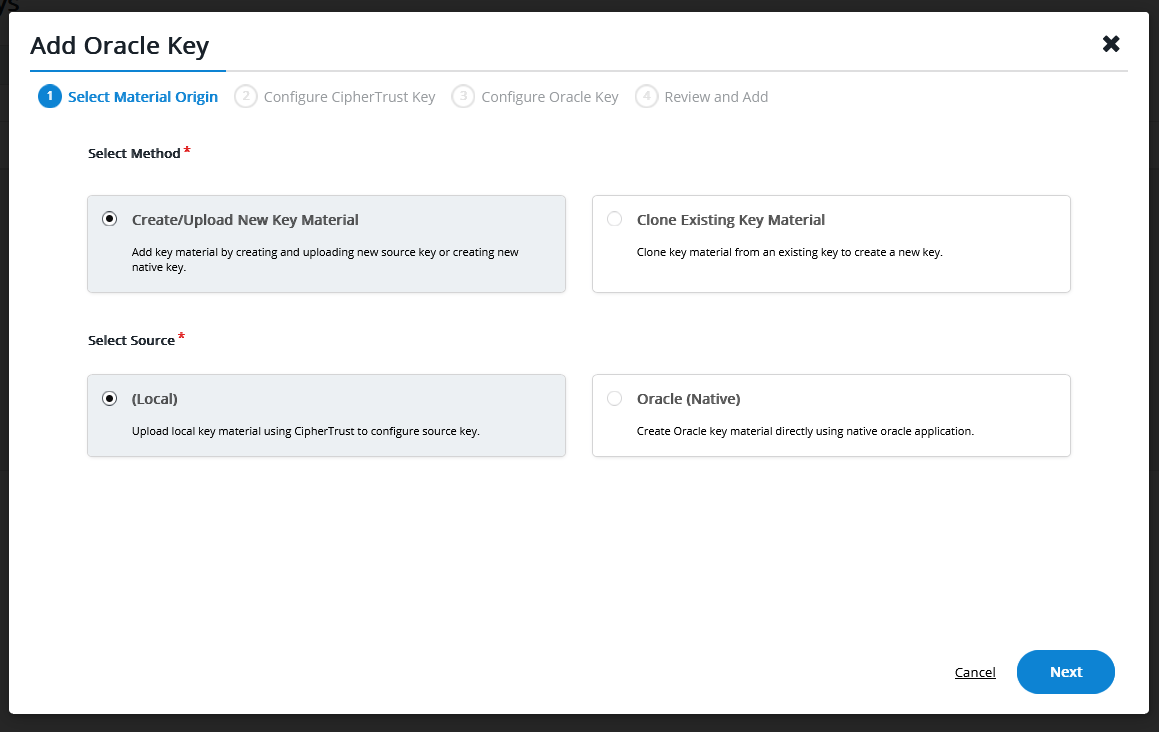
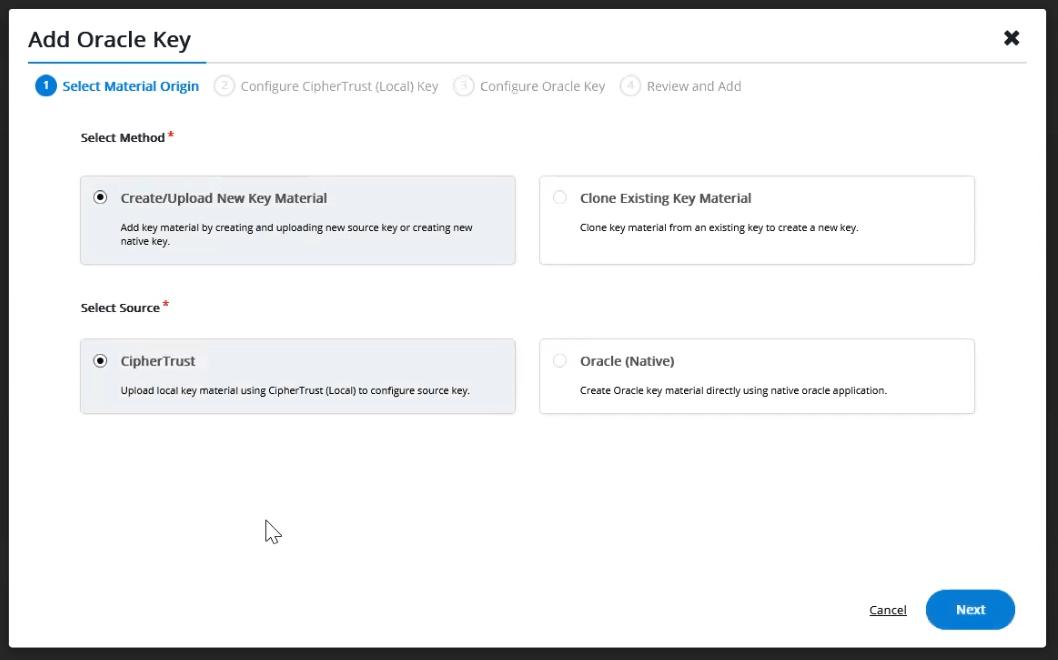
WMS ID: #11394 (#120)
* WMS ID # 11394

WMS ID # 11394

* Updates content

Updates content

* Updates

Updates

* Updates

Updates

* Updates

Updates

* Updates Thales

Updates Thales

* Updates

Updates

* Updates

Updates

* Updates

Updates

* Updates

Updates

* Updates

Updates

* Updates

Updates

* Updates

Updates

* Updates

Updates

* Updates

Updates

* Updates

Updates

* Updates

Updates

* Update cloud-login.md

* Changes to Get Started and Lab 1 - Damien

Changes to Get Started and Lab 1 - Damien

* Push from Damien - Lab 1 correction

* Update lab 1

* Update lab 1-2

* Update create-connection.md

* Update create-connection.md

* Update create-connection.md

* Update create-connection.md

* Update create-connection.md

* Update create-connection.md

* Update create-connection.md

* Update create-connection.md

* Update create-connection.md

* Update create-connection.md

* Update create-connection.md

* Update byok-to-oci.md

* Update byok-to-oci.md

* Update byok-to-oci.md

* Update byok-to-oci.md

* Update byok-to-oci.md

* Update picture

Update picture

* Update picture

Update picture

* Updates

Updates

* Update byok-to-oci.md

* Update byok-to-oci.md

* Update byok-to-oci.md

* Create accessing-oci-vault.png

* Create oci-vault.png

* Update byok-to-oci.md

* Update byok-to-oci.md

* Update byok-to-oci.md

* Update byok-to-oci.md

* Update encrypt-resources.md

* Update encrypt-resources.md

* Update encrypt-resources.md

* Update encrypt-resources.md
[…]

diff --git a/oci-kms/encrypt-resources/encrypt-resources.md b/oci-kms/encrypt-resources/encrypt-resources.md
@@ -35,13 +35,13 @@ Let's first create a bucket in OCI Object Storage. To do that, log in to OCI con
 
 
 3. Name it by following this naming convention: 
-* **"ocw23-OCI-bucket-XXX"** where "XXX" is your student number. 
+    * **"ocw23-OCI-bucket-XXX"** where "XXX" is your student number. 
 
-Select the option **Encrypt using customer-managed keys**. Once you select that option, new fields to be filled will appear.
-* Select the Vault you created in lab 1 called "ocw23-OCI-Vault-XXX" where "XXX" is your student number. 
-* Select the encryption key that you created in Thales CTM, called "ocw23-AES-256-XXX" where "XXX" is your student number.
+    Select the option **Encrypt using customer-managed keys**. Once you select that option, new fields to be filled will appear.
+    * Select the Vault you created in lab 1 called "ocw23-OCI-Vault-XXX" where "XXX" is your student number. 
+    * Select the encryption key that you created in Thales CTM, called "ocw23-AES-256-XXX" where "XXX" is your student number.
 
-Then click **Create**.
+    Then click **Create**.
     ![Bucket info](./images/bucket-info.png "Bucket info")
 
 4. Congratulations, you have now created a new storage bucket in OCI where all the data you upload will be automatically encrypted at all times with the encryption key you created on Thales CTM:
@@ -75,14 +75,14 @@ You will upload a file that will be provided to you into the bucket you recently
   ![Create Pre-Authenticated Request](./images/create-par.png "Create Pre-Authenticated Request")
 
 7. Fill the parameters as follow 
-* Name: enter "ocw23-sample-file"
-* Pre-Authenticated Request target: Click on the "Object" tile
-* Object Name: enter "ocw23-sample-file.csv"
-* Access Type: select "Permit object reads"
-* Expiration: leave the default or choose any time. 
+    * Name: enter "ocw23-sample-file"
+    * Pre-Authenticated Request target: Click on the "Object" tile
+    * Object Name: enter "ocw23-sample-file.csv"
+    * Access Type: select "Permit object reads"
+    * Expiration: leave the default or choose any time. 
 
- Then click **Create Pre-Authenticated Request**:
-  ![Add Pre-Authenticated Request info](./images/par-info.png "Add Pre-Authenticated Request info")
+    Then click **Create Pre-Authenticated Request**:
+    ![Add Pre-Authenticated Request info](./images/par-info.png "Add Pre-Authenticated Request info")
 
 8. A window will prompt with the URL of the pre-authenticated request. Copy this URL and save it locally, you will need it later in lab 4. Click **Close**.
 
@@ -94,37 +94,35 @@ You will upload a file that will be provided to you into the bucket you recently
 
 Let's create now the Autonomous Database, and configure it with the key you created in Thales CTM. 
 
-### Learn More
+In order to use customer-managed encryption for Autonomous Database, it is required to create permissions to allow your Autonomous Database to communicate with the OCI Vault service. For the purpose of this lab, we have pre-configured a Dynamic Group and the associated policy. For you to understand all the steps, you can look at the configuration below, or if you don't have time you can skip directly to step 1 of this task. 
 
-* In order to use customer-managed encryption for Autonomous Database, it is required to create permissions to allow your Autonomous Database to communicate with the OCI Vault service. For the purpose of this lab, we have pre-configured a Dynamic Group and the associated policy. For you to understand all the steps, you can look at the configuration below, or if you don't have time you can skip directly to step 1 of this lab. 
+We have created a dynamic group which automatically contains all the resources of this compartment. To see the configuration, in the Oracle Cloud Infrastructure console click *"Identity & Security"* and under *"Identity"*, click *"Dynamic Groups"*. 
 
-* We have created a dynamic group which automatically contains all the resources of this compartment. To see the configuration, in the Oracle Cloud Infrastructure console click *"Identity & Security"* and under *"Identity"*, click *"Dynamic Groups"*. 
+  ![Dynamic Groups](./images/dynamic-groups.png "Dynamic Groups")
 
- ![Dynamic Groups](./images/dynamic-groups.png "Dynamic Groups")
+Look for a group called "ocw23ToVault" and click on its name to see all the details. 
 
-* Look for a group called "ocw23ToVault" and click on its name to see all the details. 
+  ![Dynamic Groups list](./images/dynamic-groups-list.png "Dynamic Groups List")
 
- ![Dynamic Groups list](./images/dynamic-groups-list.png "Dynamic Groups List")
-
-* In the details panel, you can see the rule which was created: 
+In the details panel, you can see the rule which was created: 
   ```
   resource.compartment.id = '<your_Compartment_OCID>'
   ```
   where &lt;your\_Compartment\_OCID&gt; is the OCID of the compartment ocw23-OCI-Vault-HOL.
   This means that any new resource created in the "ocw23-OCI-Vault-HOL" compartment will automatically belong to this group. This is a best practice for simplification as all the new Autonomous Database created will be part of it and benefit from the associated policy. Indeed when you are creating the dynamic group, the OCID for the new database is not yet available.
 
- ![Dynamic Group Details](./images/dynamic-group-details.png "Dynamic Group Details")
+  ![Dynamic Group Details](./images/dynamic-group-details.png "Dynamic Group Details")
 
-* Then we needed to write a policy statement for the dynamic group to enable access to OCI Vault resources: Vaults and Keys. To check the policy written for this lab, in the OCI console click *"Identity & Security"* and under *"Identity"*, click *"Policies"*:
+Then we needed to write a policy statement for the dynamic group to enable access to OCI Vault resources: Vaults and Keys. To check the policy written for this lab, in the OCI console click *"Identity & Security"* and under *"Identity"*, click *"Policies"*:
 
   ![Security policies](./images/policies.png "Security policies")
 
 
-* Look for a policy called "ocw23-Dynamic-Access-to-Vault-Policy" and click on its name to see all the details.
+Look for a policy called "ocw23-Dynamic-Access-to-Vault-Policy" and click on its name to see all the details.
 
   ![Security policies list](./images/policies-list.png "Security policies list")
 
-  * In the details panel, you can see a policy was written as follows:
+In the details panel, you can see a policy was written as follows:
   ```
   Allow dynamic-group ocw23ToVault to use vaults in compartment ocw23-OCI-Vault-HOL
   Allow dynamic-group ocw23ToVault to use keys in compartment ocw23-OCI-Vault-HOL
@@ -132,7 +130,7 @@ Let's create now the Autonomous Database, and configure it with the key you crea
 
    ![Create policy](./images/create-policy.png "Create policy")
 
-This policy configuration is very important. By default, no services can access Vaults and Keys. It is your responsibility as a CISO / Security Administrator of OCI to decide who/what can access which vaults and which encryption keys. This allows you to define a very advanced and granular encryption architecture within OCI, while leveraging your existing KMS/HSM assets on-premise as the key we are using in this lab has been created by you on your company existing Thales CTM tenant, outside of OCI. 
+This policy configuration is very important. By default, no services can access Vaults and Keys. It is your responsibility as a CISO / Security Administrator of OCI to decide who/what can access which vaults and which encryption keys. This allows you to define a very advanced and granular encryption architecture within OCI, while leveraging your existing KMS/HSM assets on-premise as the key we are using in this lab has been created by you on your company existing Thales CTM tenant, outside of OCI.
 
 1. Now you can create the Autonomous Database. Navigate through the main hamburger menu to: *"Oracle Database > Autonomous Database"*.
 
@@ -149,16 +147,16 @@ This policy configuration is very important. By default, no services can access 
     *	Display Name: ocw23-OCI-adb-001
     *	Database Name: ocw23OCIadb001
     *	Workload type: Transaction Processing
-    *	Deployment type: Shared Infrastructure
+    *	Deployment type: Serverless
     *	Configure the database: &lt;Leave it as default&gt; 
     *	Administrator credentials: &lt;your ADMIN password&gt; 
     *	Network access: Secure access from everywhere
     *	License type: Bring Your Own License (BYOL)
     * Oracle Database Edition: Oracle Database Standard Edition (SE)
   
-Click the link *"Show advanced options"*. A new section for Encryption Key will appear. Select the option: *"Encrypt using a customer-managed key in this tenancy"* and enter your previously created Vault and Master Encryption Key.
+    Click the link *"Show advanced options"*. A new section for Encryption Key will appear. Select the option: *"Encrypt using a customer-managed key in this tenancy"* and enter your previously created Vault and Master Encryption Key.
 
-![Encryption in Autonomous Database](./images/adb-encryption.png "Encryption in Autonomous Database")
+    ![Encryption in Autonomous Database](./images/adb-encryption.png "Encryption in Autonomous Database")
 
 
 4. Click **Create Autonomous Database**. Then wait until the database status is set to green and ACTIVE.

diff --git a/oci-kms/create-connection/create-connection.md b/oci-kms/create-connection/create-connection.md
@@ -112,18 +112,18 @@ In this task you will create a connection from your CipherTrust Manager (CTM) te
 
 7. You are now in the **Configure Connection** step. You have to enter the information you previoulsy saved when you created the API Key Pair, in the Task 1.9 of this lab. **BE CAREFUL**, the information are not listed in the same order, for example "User OCID" is provided first and "tenancy OCID" comes third, where here "tenancy OCID" is asked first, so you have to make sure you paste the relevant information. You will also need to upload the private key file you saved in the same step.
 
-Copy the following parameters you had in your configuration file:
+    Copy the following parameters you had in your configuration file:
 
-![Configuration file](images/configuration-file-red-squares.png "Configuration file")
+    ![Configuration file](images/configuration-file-red-squares.png "Configuration file")
 
-   * Tenancy OCID: OCID of the tenancy.
-   * User OCID: OCID of the user.
-   * Region: An Oracle Cloud Infrastructure region.
-   * Fingerprint: Fingerprint of the public key added to this user.
-   * Key File: Private key file for the OCI connection in the PEM format. Either upload the key file or paste the file content.
-   * File Upload: Select and click Upload Private Key to upload the key file from your machine.
-   * Text: Select and paste the certificate content in the text field.
-   * Passphrase: Passphrase of the encrypted key file.
+    * Tenancy OCID: OCID of the tenancy.
+    * User OCID: OCID of the user.
+    * Region: An Oracle Cloud Infrastructure region.
+    * Fingerprint: Fingerprint of the public key added to this user.
+    * Key File: Private key file for the OCI connection in the PEM format. Either upload the key file or paste the file content.
+    * File Upload: Select and click Upload Private Key to upload the key file from your machine.
+    * Text: Select and paste the certificate content in the text field.
+    * Passphrase: Passphrase of the encrypted key file.
     
 
     ![Connection details](images/connection-details.png "Connection details")

diff --git a/oci-kms/introduction/introduction.md b/oci-kms/introduction/introduction.md
@@ -10,9 +10,9 @@ In this Hands-On Lab, you will learn how to manage your encryption keys outside 
 
 This Hands-On Lab will walk you through how to enable the feature, link your HSM outside of OCI to your OCI tenant and start encrypting data in OCI, for storage encryption and OCI Database encryption through TDE support. Now your Master Encryption Keys never leave your own HSM. You will also simulate an Emergency Situation in which you are being asked to block access to data stored in OCI Storage Buckets or Database Service. You’re in control. 
 
-Estimated Workshop Time: 1 hour
+Estimated Time: 1.5 hours
 
-*Note*  In this lab you will truly use an external KMS service: each student will have a Thales CipherTrust Manager tenant, which is a Key management as a Service tenant for Key Management, based on Thales HSM as a service solution.
+> **Note:**  In this lab you will truly use an external KMS service: each student will have a Thales CipherTrust Manager tenant, which is a Key management as a Service tenant for Key Management, based on Thales HSM as a service solution.
 
 ### Objectives
 

diff --git a/oci-kms/byok-to-oci/byok-to-oci.md b/oci-kms/byok-to-oci/byok-to-oci.md
@@ -60,7 +60,7 @@ This lab assumes you have:
 
     ![Oracle keys](images/oracle-keys.png "Oracle keys")
 
-2. Click on the "Add Key" button. The first step of the "Select Material Origin" screen of the "Add Oracle Key" wizard is displayed. Select the key source: in this case we are going to create the key locally on CipherTrust so for "Select Method" click on "Create/Upload New Key Material" and then for "Select Source" click on "(Local)":
+2. Click on the "Add Key" button. The first step of the "Select Material Origin" screen of the "Add Oracle Key" wizard is displayed. Select the key source: in this case we are going to create the key locally on CipherTrust so for "Select Method" click on "Create/Upload New Key Material" and then for "Select Source" click on "CipherTrust":
 
     ![Add key](images/add-key.png "Add key")
 
